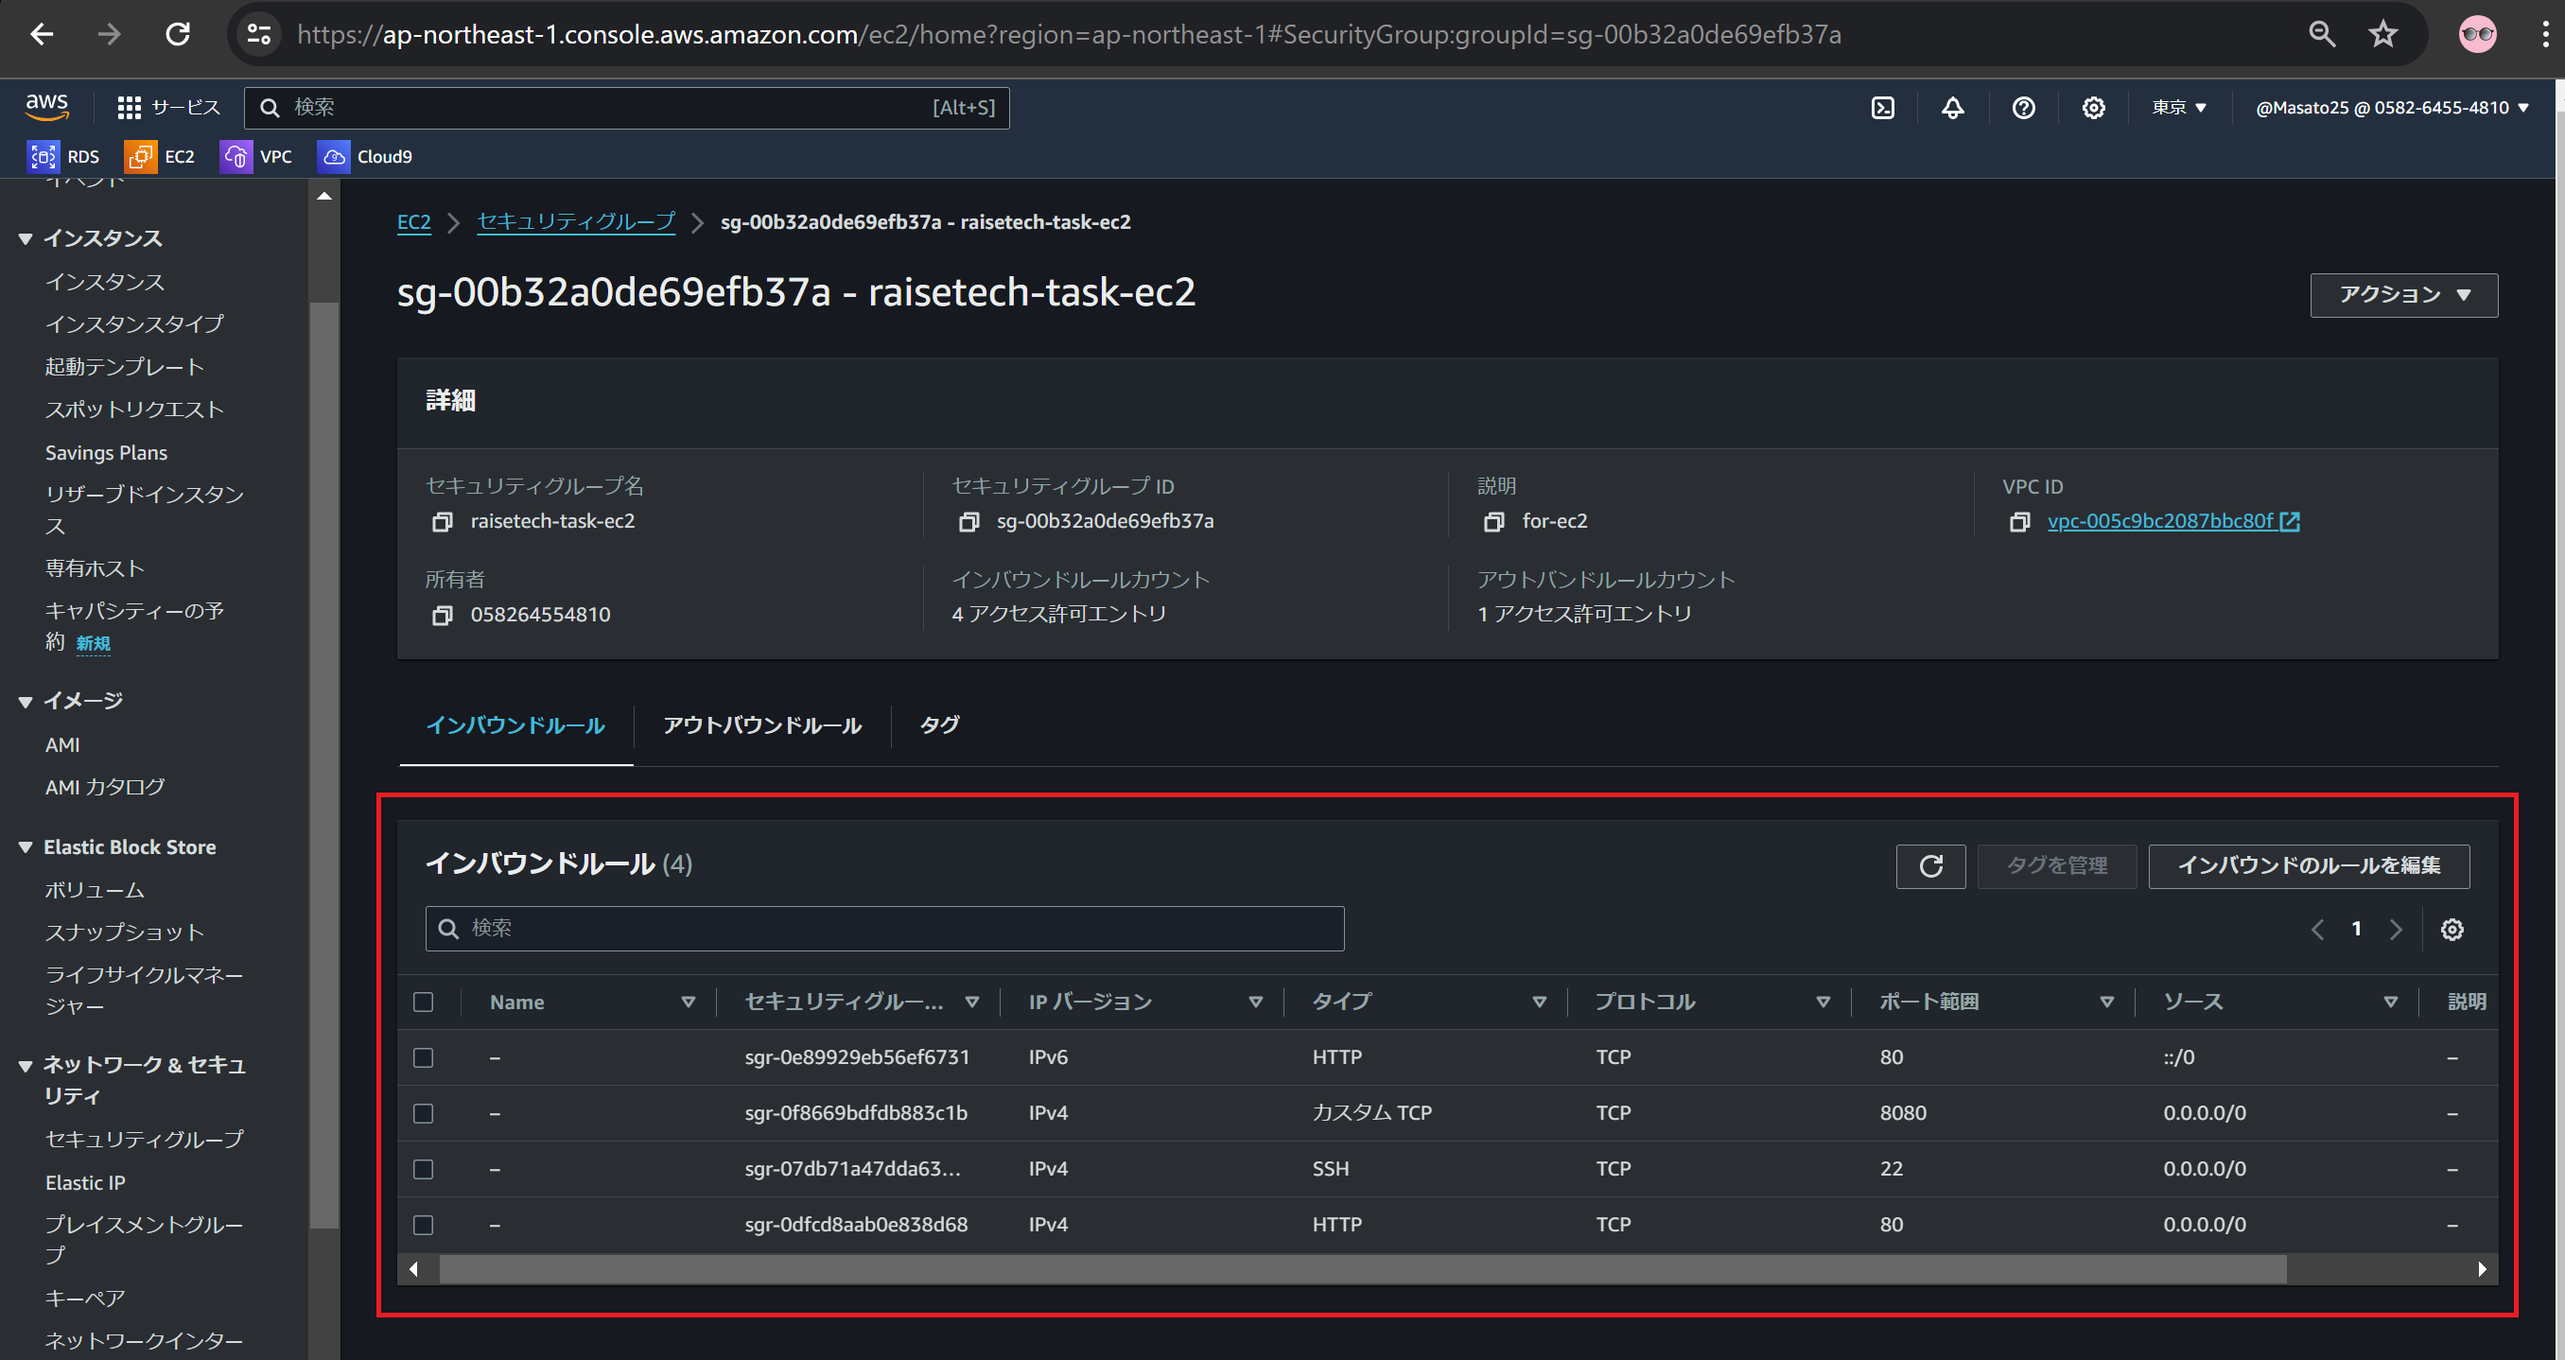
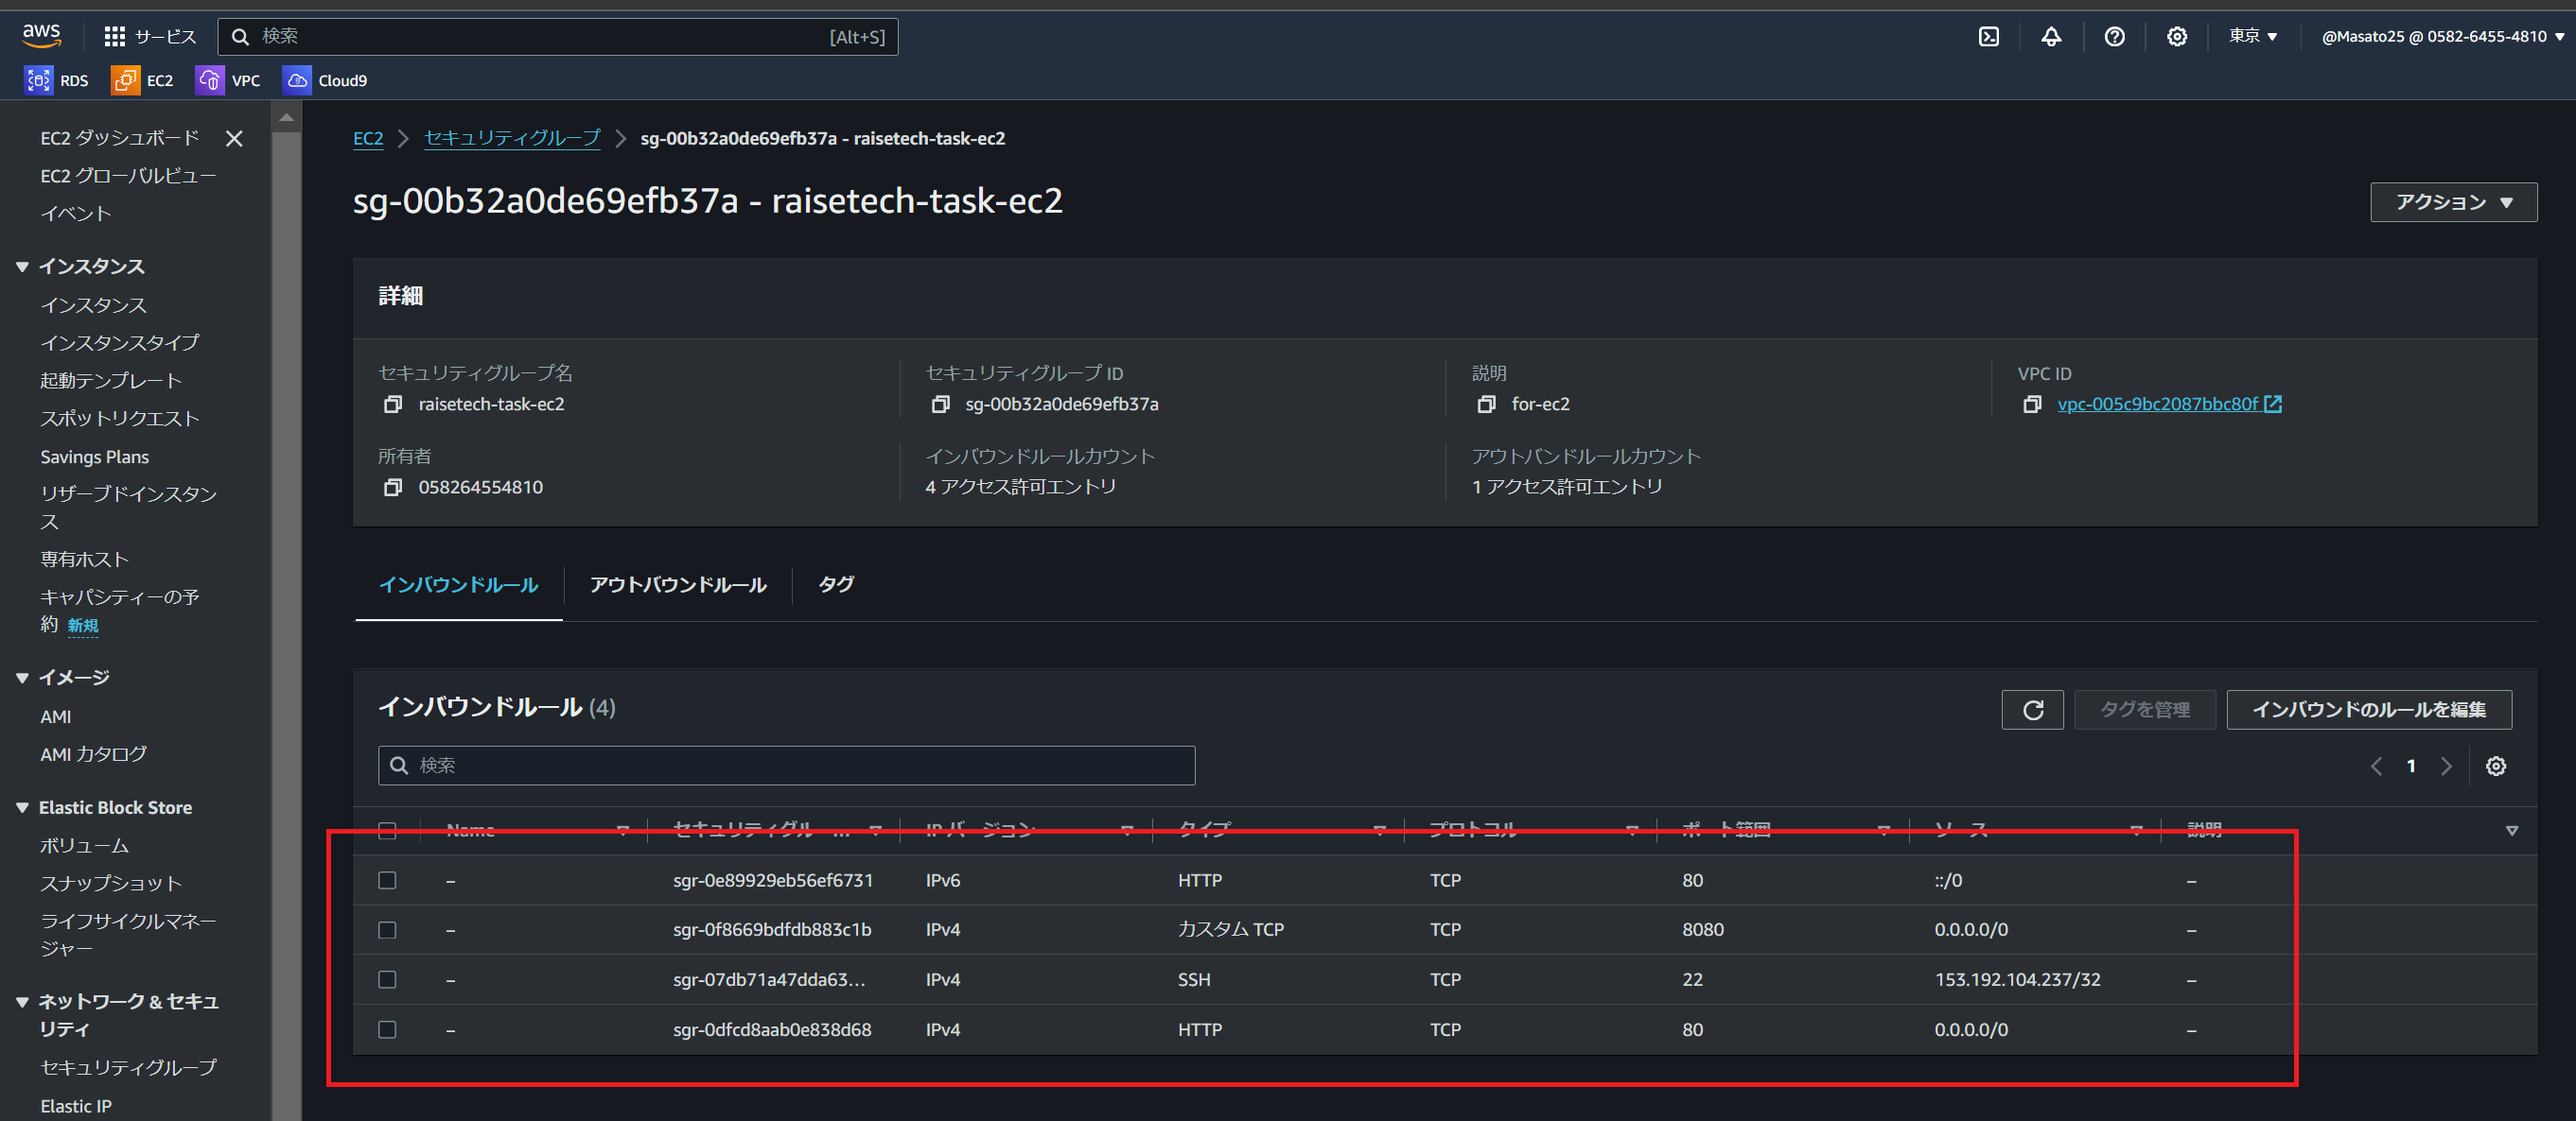
lecture04修正

diff --git a/lecture04.md b/lecture04.md
@@ -21,98 +21,45 @@
 ----
 ## 実施内容
 
-
-
 - *VPC*を作成
 
-
 ![Image 1](image/VPC.png)
-
-
 ----
-
 
 - *EC2*を作成
 
-
 ![Image 2](image/EC2.png)
-
-
-
 ----
 
-
 - *EC2*の`セキュリティグループ`を作成
-
-
 
 | IPバージョン | タイプ      | プロトコル | ポート範囲 | ソース    | 説明                                                       | 
 | ------------ | ----------- | ---------- | ---------- | --------- | ---------------------------------------------------------- | 
 | IPv6         | HTTP        | TCP        | 80         | ::/0      | 全てのIPv6アドレスからのHTTPアクセスを許可するために設定 | 
 | IPv4         | カスタムTCP | TCP        | 8080       | 0.0.0.0/0 | 開発中の代替ポートとして設定                               | 
-| IPv4         | SSH         | TCP        | 22         | 0.0.0.0/0 | ローカルPCからサーバーを管理するために設定                 | 
+| IPv4         | SSH         | TCP        | 22         | 153.192.104.237/32 | ローカルPCからサーバーを管理するために設定                 | 
 | IPv4         | HTTP        | TCP        | 80         | 0.0.0.0/0 | 全てのIPv4アドレスからのHTTPアクセスを許可するために設定 | 
 
-
-
 ![Image 3](image/security-group-for-ec2.png)
-
-
-
 ----
-
 
 - *RDS*の作成
 
-
-
 ![Image 4](image/RDS.png)
-
-
-
 ----
-
 
 - *RDS*の`セキュリティグループ`を作成
 
+ソースを`EC2`からアクセス可能となるように`EC2`のプライベートIPアドレスに設定
 
 | IPバージョン | タイプ       | プロトコル | ポート範囲 | ソース    | 説明                          | 
 | ------------ | ------------ | ---------- | ---------- | --------- | ----------------------------- | 
-| IPv4         | MYSQL/Aurora | TCP        | 3306       | 0.0.0.0/0 | MySQLにアクセスするために設定 | 
-
-
+| IPv4         | MYSQL/Aurora | TCP        | 3306       | 10.0.0.241/32 | MySQLにアクセスするために設定 | 
 
 ![Image 5](image/security-group-for-rds.png)
-
-
-
-
-
 ----
-
 
 - ターミナルで`EC2`起動し`RDS`に接続
 
-
-
 ![Image 6](image/EC2-connect-RDS.png)
-
-
-
 ----
-
-
-- *cloud9*を起動し`RDS`に接続
-
-
-![Image 7](image/MySQL-connect.png)
-
-
-
-----
-
-
-
-
-
-
